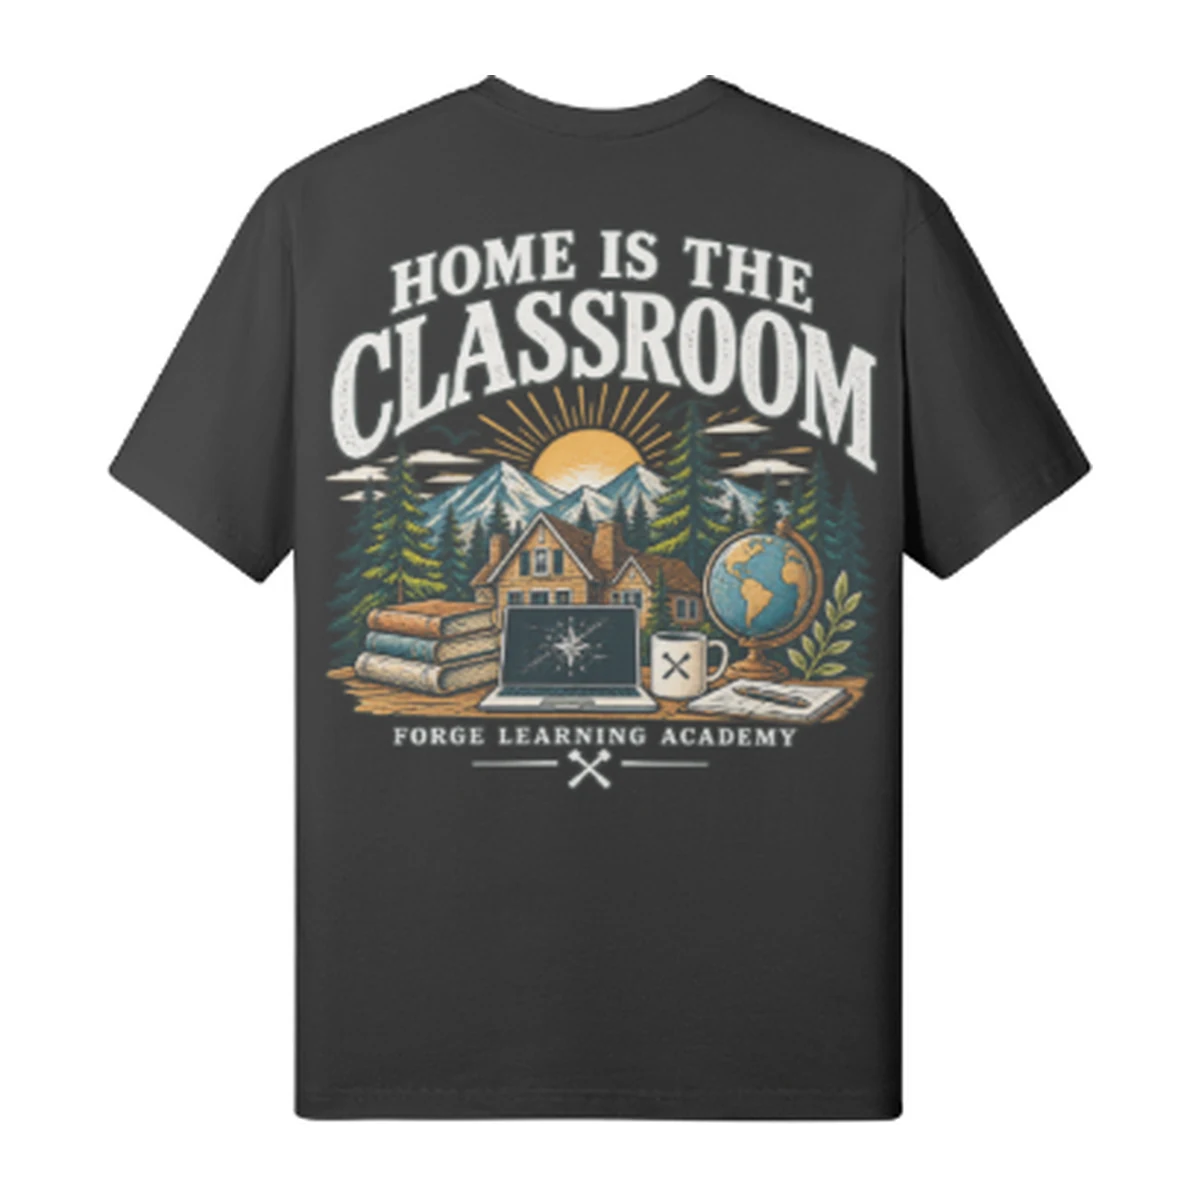
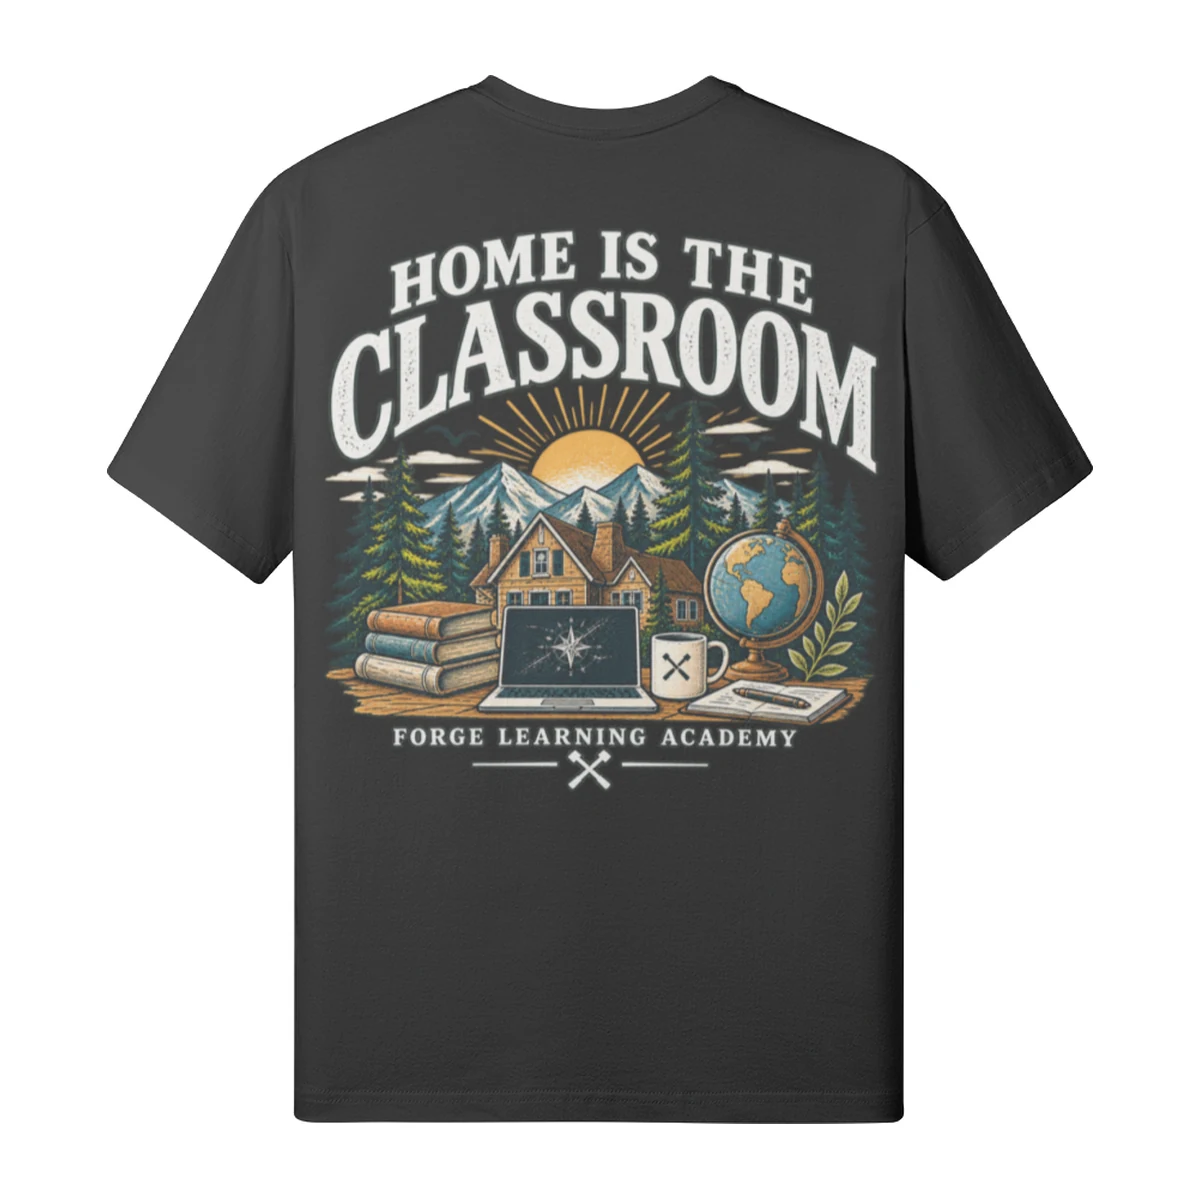
Home Is the Classroom: 6 colors, full-size mockups

diff --git a/js/products.js b/js/products.js
@@ -58,7 +58,9 @@ var COLORS = {
   pink:       { label: "Pink",         hex: "#F4D1D4" },
   forest:     { label: "Forest Green", hex: "#23443D" },
   olive:      { label: "Olive",        hex: "#6C7856" },
-  cream:      { label: "Cream",        hex: "#F4E9CF" }
+  cream:      { label: "Cream",        hex: "#F4E9CF" },
+  slate:      { label: "Slate",        hex: "#575F5C" },
+  heather:    { label: "Heather Gray", hex: "#C7C8C6" }
 };
 
 /* PRODUCTS: one entry = one product. Each color has its own front + back image.
@@ -114,9 +116,12 @@ var PRODUCTS = [
     description: "FORGE chest logo on the front. HOME IS THE CLASSROOM illustration on the back.",
     sizes: ["S", "M", "L", "XL", "2XL"],        // CONFIRM SIZES
     colors: {
-      olive: { front: "images/products/home-is-the-classroom/olive-front.webp", back: "images/products/home-is-the-classroom/olive-back.webp" },
-      cream: { front: "images/products/home-is-the-classroom/cream-front.webp", back: "images/products/home-is-the-classroom/cream-back.webp" },
-      black: { front: "images/products/home-is-the-classroom/black-front.webp", back: "images/products/home-is-the-classroom/black-back.webp" }
+      olive:    { front: "images/products/home-is-the-classroom/olive-front.webp", back: "images/products/home-is-the-classroom/olive-back.webp" },
+      cream:    { front: "images/products/home-is-the-classroom/cream-front.webp", back: "images/products/home-is-the-classroom/cream-back.webp" },
+      navy:     { front: "images/products/home-is-the-classroom/navy-front.webp", back: "images/products/home-is-the-classroom/navy-back.webp" },
+      black:    { front: "images/products/home-is-the-classroom/black-front.webp", back: "images/products/home-is-the-classroom/black-back.webp" },
+      slate:    { front: "images/products/home-is-the-classroom/slate-front.webp", back: "images/products/home-is-the-classroom/slate-back.webp" },
+      heather:  { front: "images/products/home-is-the-classroom/heather-front.webp", back: "images/products/home-is-the-classroom/heather-back.webp" }
     }
   }
 ];
